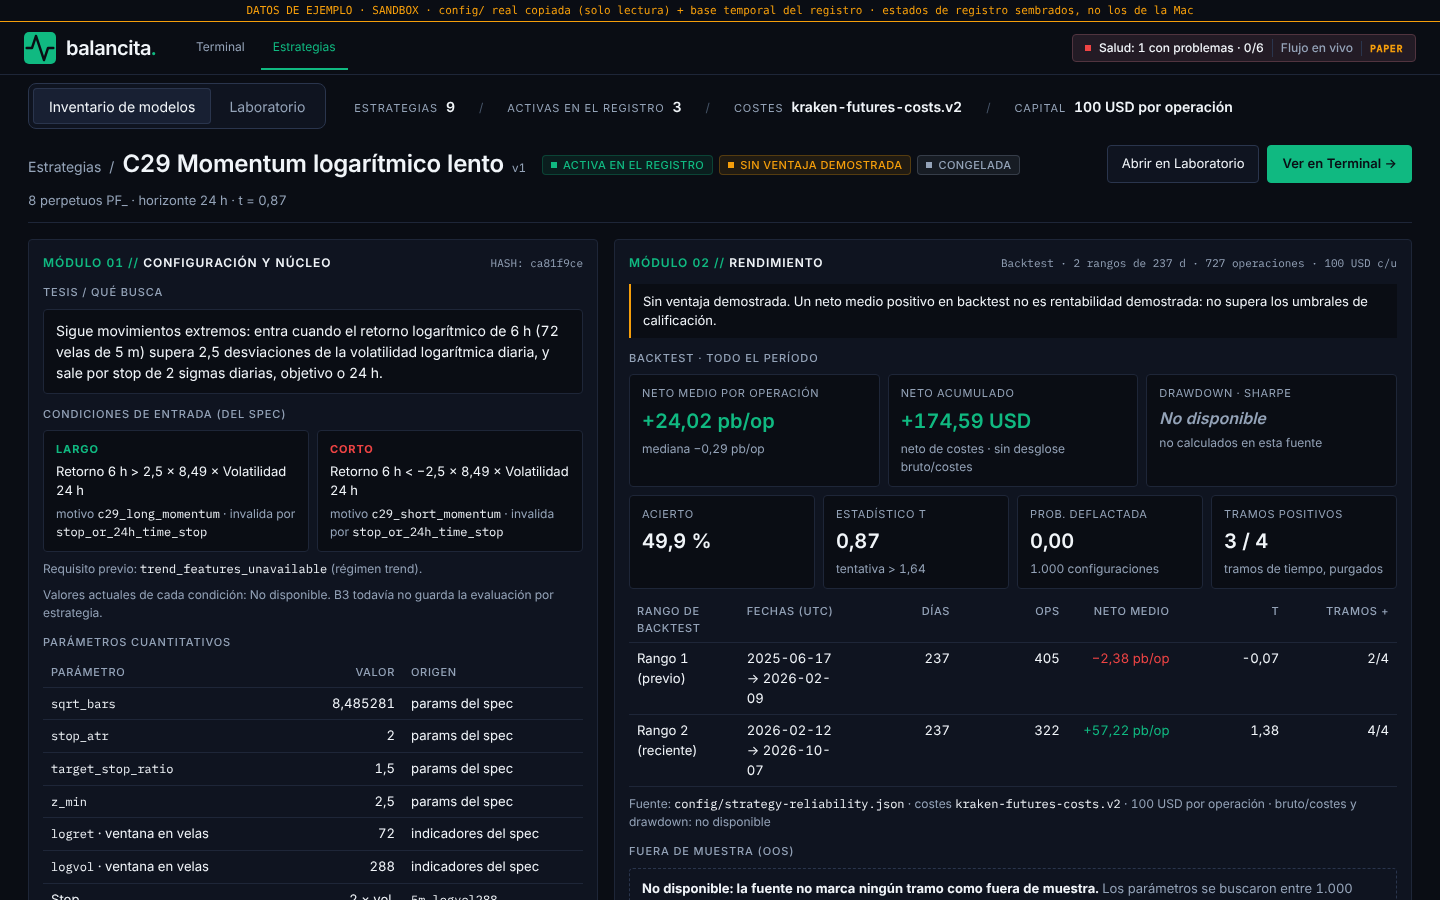
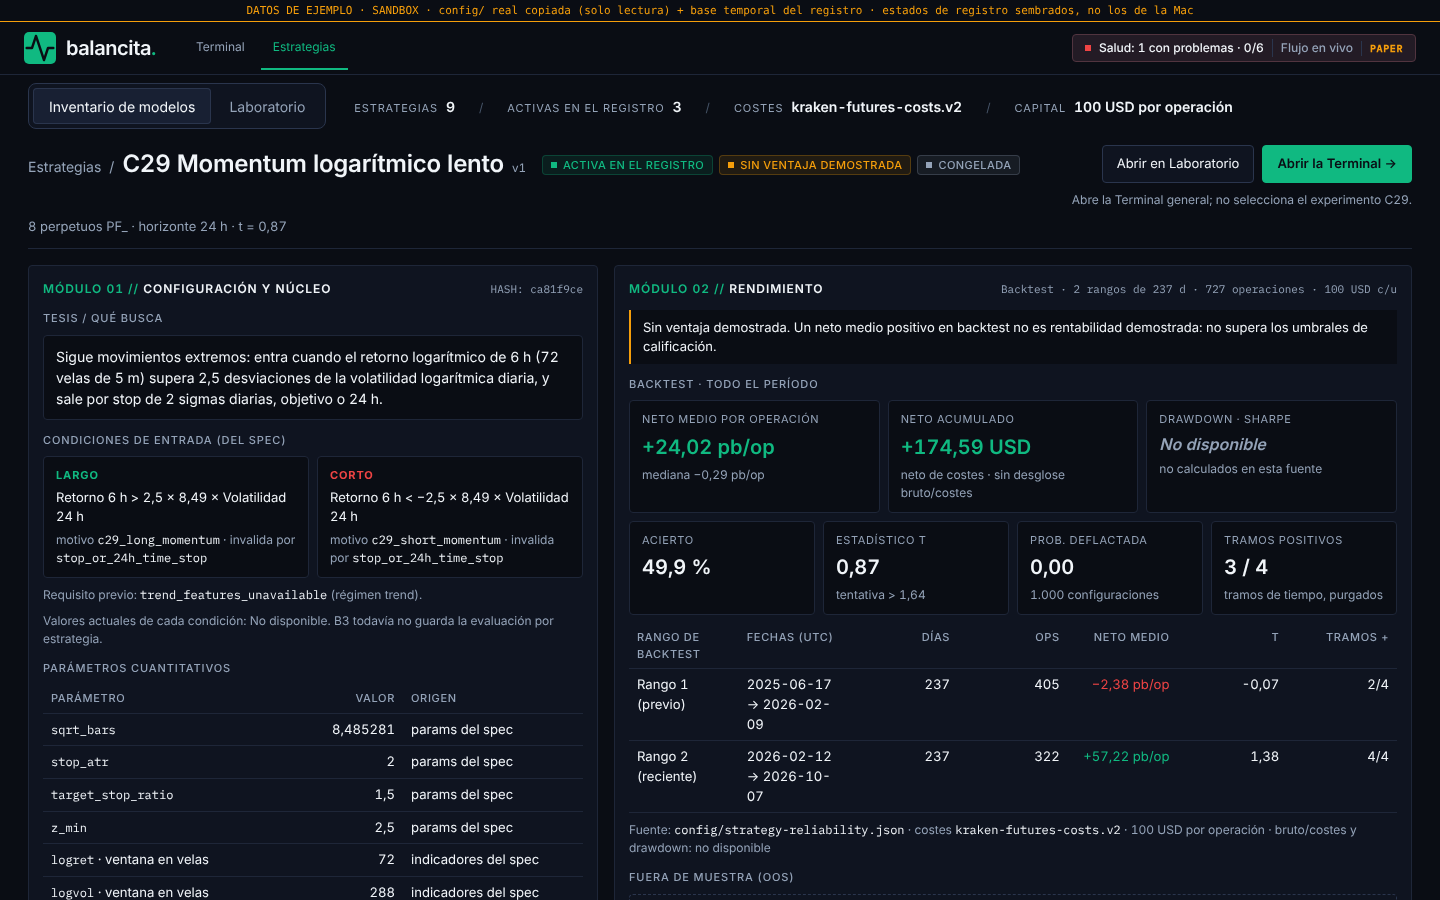
Detalle C29: «Abrir la Terminal» aclara que abre la Terminal general y no selecciona el experimento

diff --git a/e2e/estrategias-inventario.pw.ts b/e2e/estrategias-inventario.pw.ts
@@ -334,6 +334,23 @@ test('navigation: Terminal <-> Estrategias <-> inventory <-> detail, no new tabs
   await expect(detail.getByTestId('module-performance')).toContainText(
     'no tiene backtest por diseño',
   )
+  // Detail of C29 -> general Terminal (no C29 selection) -> back.
+  await detail.getByRole('button', { name: 'Estrategias' }).click()
+  await page.getByRole('button', { name: /Detalle de C29/ }).click()
+  await expect(detail.getByRole('heading', { name: /^C29/ })).toBeVisible()
+  await expect(detail.getByText('Ver en Terminal')).toHaveCount(0)
+  const toTerminal = detail.getByRole('link', { name: /Abrir la Terminal/ })
+  await expect(toTerminal).toHaveAccessibleDescription(
+    'Abre la Terminal general; no selecciona el experimento C29.',
+  )
+  await toTerminal.click()
+  await expect(page).toHaveURL(/\/terminal$/)
+  expect(new URL(page.url()).search + new URL(page.url()).hash).toBe('')
+  await expect(page.getByTestId('strategy-detail')).toHaveCount(0)
+  await page.goBack()
+  await expect(page).toHaveURL(/\/estrategias$/)
+  await expect(page.getByTestId('inventory-row')).toHaveCount(10)
+  await page.getByRole('button', { name: /Detalle de C32/ }).click()
   // Detail -> laboratory (explicit action) -> back to the inventory tab.
   await detail.getByRole('button', { name: 'Abrir en Laboratorio' }).click()
   await expect(page.getByRole('tab', { name: 'Laboratorio' })).toHaveAttribute(

diff --git a/src/features/strategy-lab/presentation/StrategyDetailView.tsx b/src/features/strategy-lab/presentation/StrategyDetailView.tsx
@@ -1017,6 +1017,7 @@ export default function StrategyDetailView({
   const activity = useLoaded(loadActivity, `activity:${row.id}`)
   const stored = detail.state === 'ok' ? detail.value : null
   const plan = plans.state === 'ok' ? (plans.value[row.id] ?? null) : null
+  const code = /^[A-Z]+\d+/.exec(row.name)?.[0] ?? row.name
   const market =
     row.market.products != null ? `${row.market.products} perpetuos PF_` : NA
   return (
@@ -1053,8 +1054,13 @@ export default function StrategyDetailView({
           <button type="button" onClick={onOpenLab}>
             Abrir en Laboratorio
           </button>
-          <a href="/terminal">Ver en Terminal →</a>
+          <a href="/terminal" aria-describedby="detail-terminal-note">
+            Abrir la Terminal →
+          </a>
         </div>
+        <p id="detail-terminal-note" className="detail__actions-note">
+          Abre la Terminal general; no selecciona el experimento {code}.
+        </p>
       </header>
 
       {detail.state === 'error' && (

diff --git a/src/features/strategy-lab/presentation/StrategyDetailView.test.tsx b/src/features/strategy-lab/presentation/StrategyDetailView.test.tsx
@@ -196,6 +196,16 @@ describe('StrategyDetailView (datos de ejemplo)', () => {
     )
   })
 
+  it('offers the general Terminal and does not promise to select the experiment', async () => {
+    view(() => Promise.resolve(report([])))
+    const link = await screen.findByRole('link', { name: /Abrir la Terminal/ })
+    expect(link).toHaveAttribute('href', '/terminal')
+    expect(link).toHaveAccessibleDescription(
+      'Abre la Terminal general; no selecciona el experimento X2.',
+    )
+    expect(screen.queryByText(/Ver en Terminal/)).not.toBeInTheDocument()
+  })
+
   it('draws no chart and states that there is no equity curve', async () => {
     const { container } = view(() => Promise.resolve(report([])))
     await screen.findByTestId('module-operations')

diff --git a/src/features/strategy-lab/presentation/StrategyDetailView.css b/src/features/strategy-lab/presentation/StrategyDetailView.css
@@ -98,6 +98,14 @@
   font-weight: 600;
 }
 
+.detail__actions-note {
+  flex-basis: 100%;
+  margin-top: -4px;
+  color: var(--mc-text-2);
+  font-size: 12px;
+  text-align: right;
+}
+
 .detail__grid {
   display: grid;
   grid-template-columns: minmax(0, 5fr) minmax(0, 7fr);

diff --git a/docs/mission-control/p2-detalle-c29/LEEME.md b/docs/mission-control/p2-detalle-c29/LEEME.md
@@ -11,6 +11,7 @@ Tipografía Inter / IBM Plex Mono cargada localmente (se permitió el directorio
 - `detalle-c29.png`: detalle de C29 a 1440x900.
 - `detalle-c29-completo.png`: página completa.
 - `comparacion-stitch-vs-react.png`: Stitch v5 (izquierda) y React (derecha).
+- Botón de la cabecera: «Abrir la Terminal →» abre la Terminal general (`/terminal`, sin estado de selección); la nota «Abre la Terminal general; no selecciona el experimento C29.» lo aclara y no promete navegar al experimento. Stitch decía «Ver en Terminal».
 - `solicitudes.json`: solicitudes `/api-*` de la captura (ninguna 4xx/5xx).
 
 ## Qué sale de qué fuente (C29)
